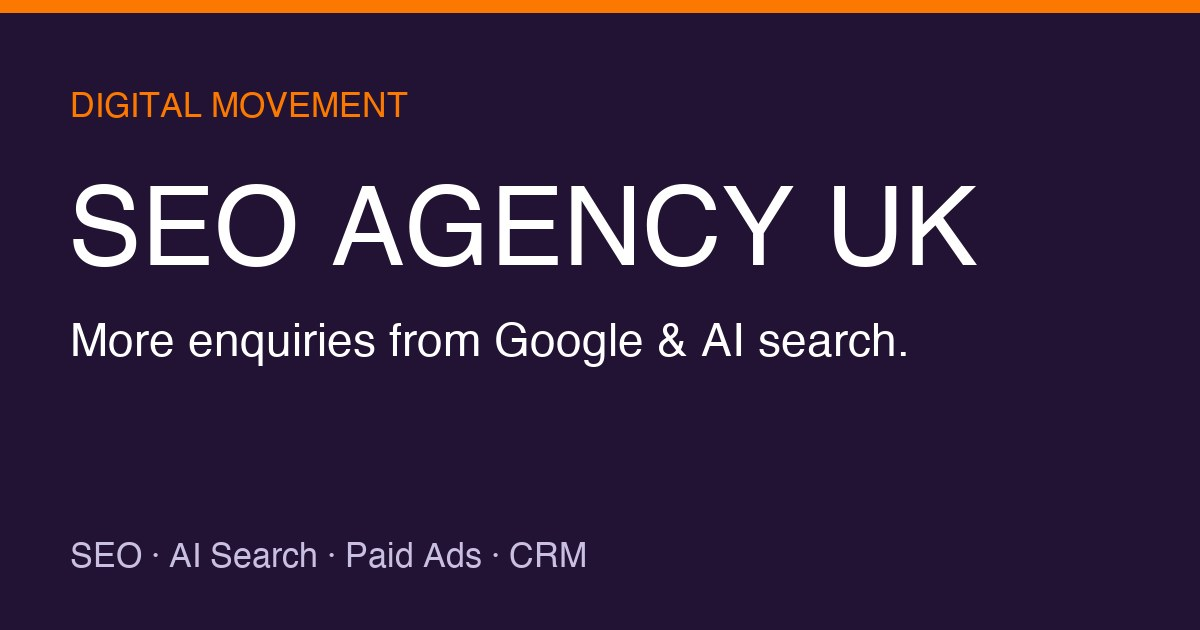
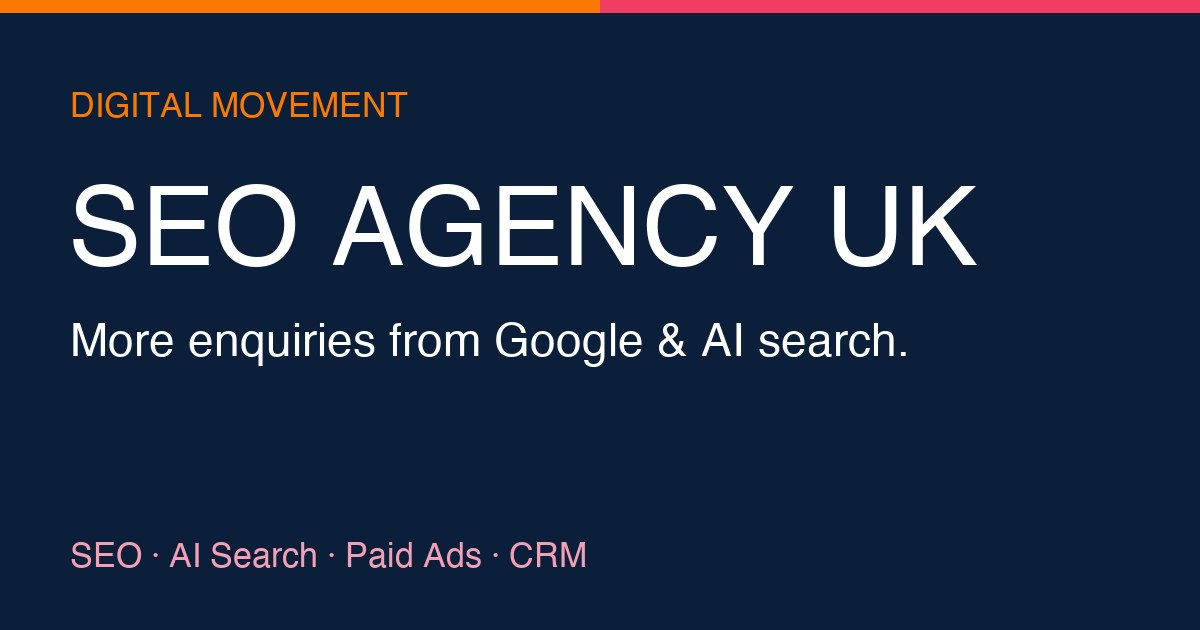
Palette: drop purple, navy darks + orange/pink accents

diff --git a/index.html b/index.html
@@ -169,9 +169,9 @@
 
   /* ===== DM BRAND v2 — real palette · NO gradients · editorial ===== */
   :root{
-    --orange:#fb7900; --amber:#fb7900; --amber-ink:#221334;
-    --ink:#221334; --ink-2:#3a2a52; --navy:#0b1f3a;
-    --cyan:#0b1f3a; --purple:#0b1f3a; --cream:#FFF3E6;
+    --orange:#fb7900; --amber:#fb7900; --amber-ink:#0b1f3a;
+    --ink:#0b1f3a; --ink-2:#25303f; --navy:#0b1f3a;
+    --cyan:#0b1f3a; --purple:#0b1f3a; --pink:#f13c64; --cream:#FFF3E6;
   }
   /* editorial large UPPERCASE headers */
   .section-head h2, .statband h2{ text-transform:uppercase; letter-spacing:-.012em; font-size:clamp(2rem,4.2vw,3.3rem); line-height:1.0; font-weight:800; max-width:none; }
@@ -185,10 +185,10 @@
   /* kill any gradient text */
   .gradient-text{ background:none!important; color:var(--orange)!important; -webkit-text-fill-color:var(--orange)!important; }
   /* brand recolour of accents */
-  .underline-accent::after{ background:var(--orange); opacity:.30; }
+  .underline-accent::after{ background:var(--pink); opacity:.34; }
   .acc summary::after{ color:#b4660a; }
   .btn-amber{ background:var(--orange); color:var(--amber-ink); box-shadow:0 12px 24px rgba(251,121,0,.26); }
-  .mosaic .tile.blue{ background:var(--navy); } .mosaic .tile.amber{ background:var(--orange); }
+  .mosaic .tile.blue{ background:var(--pink); } .mosaic .tile.amber{ background:var(--orange); }
   .dark-v2{ background:var(--ink); } .mcard{ border-color:rgba(251,121,0,.55); }
   .mcard .big,.mcard .hi,.ccard .big{ color:var(--orange); }
   .dark-v2 .eyebrow{ color:var(--orange); } .dark-v2 .eyebrow::before{ background:var(--orange); }
@@ -247,7 +247,7 @@
   .serpviz .res{ height:9px; border-radius:3px; background:#e3dcea; margin:8px 0; }
   .serpviz .res.w90{ width:90%; } .serpviz .res.w70{ width:70%; } .serpviz .res.w60{ width:60%; }
   .serpviz .res.me{ height:24px; display:flex; align-items:center; padding:0 11px; font:800 .66rem/1.1 "Inter Tight",sans-serif; border-radius:5px; }
-  .serpviz .res.me.buried{ background:#9a8fb0; color:#fff; } .serpviz .res.me.top{ background:var(--orange); color:#221334; }
+  .serpviz .res.me.buried{ background:#9a8fb0; color:#fff; } .serpviz .res.me.top{ background:var(--orange); color:#0b1f3a; }
   .vs-metrics{ list-style:none; padding:0; margin:4px 0 16px; display:grid; gap:11px; }
   .vs-metrics li{ display:flex; align-items:baseline; gap:12px; border-bottom:1px solid var(--line); padding-bottom:9px; }
   .vs-metrics li b{ font:800 1.5rem/1 "Inter Tight",sans-serif; min-width:104px; }
@@ -305,7 +305,7 @@
   .sticky-cta.show{ transform:translate(-50%,0); opacity:1; pointer-events:auto; }
   .sticky-cta a{ display:inline-flex; align-items:center; gap:9px; font:800 .95rem/1 "Inter Tight",sans-serif; padding:14px 24px; border-radius:999px; text-decoration:none; transition:transform .15s ease; }
   .sticky-cta a:hover{ transform:translateY(-2px); }
-  .sticky-cta .s-call{ background:var(--orange); color:#221334; }
+  .sticky-cta .s-call{ background:var(--orange); color:#0b1f3a; }
   .sticky-cta .s-wa{ background:#0b1f3a; color:#fff; }
   .sticky-cta svg{ width:18px; height:18px; flex:none; }
   @media(max-width:640px){ .sticky-cta{ left:12px; right:12px; bottom:12px; transform:translateY(150%); justify-content:stretch; }
@@ -332,6 +332,9 @@
   #contact .contact-block a{ color:var(--orange) !important; text-decoration:underline; }
   #contact .contact-block, #contact .contact-block p, #contact .contact-block strong{ color:#fff; }
   #contact .contact-block .small{ color:rgba(255,255,255,.82); }
+  .eyebrow::before{ background:var(--pink) !important; }
+  .vs-mid span{ border-color:var(--pink); color:var(--pink); }
+  .box-label{ background:rgba(241,60,100,.12) !important; color:#c01746 !important; }
   </style>
   <script type="application/ld+json">{"@context":"https://schema.org","@graph":[{"@type":"Organization","@id":"https://digitalmovement.uk/#organization","name":"Digital Movement","legalName":"Digital Movement Marketing Ltd","url":"https://digitalmovement.uk/","logo":"https://digitalmovement.uk/assets/dm-logo-real.png","email":"[email redacted]","telephone":"[phone redacted]","foundingDate":"2018","foundingLocation":"Melbourne, Australia","identifier":{"@type":"PropertyValue","name":"Companies House","value":"[phone redacted]"},"address":{"@type":"PostalAddress","streetAddress":"128 City Road","addressLocality":"London","postalCode":"EC1V 2NX","addressCountry":"GB"},"areaServed":[{"@type":"Country","name":"United Kingdom"},{"@type":"Country","name":"Australia"},{"@type":"Country","name":"New Zealand"}],"aggregateRating":{"@type":"AggregateRating","ratingValue":"5.0","reviewCount":"102","bestRating":"5"},"award":["Best Digital Marketing Agency in Australia 2026 (Digital Reference)","Top 10 Digital Marketing Agencies in Australia (Cape Digital)"],"founder":[{"@id":"https://digitalmovement.uk/#raoul"},{"@id":"https://digitalmovement.uk/#martey"}],"review":[{"@type":"Review","author":{"@type":"Person","name":"Jessica Purcell"},"reviewRating":{"@type":"Rating","ratingValue":"5","bestRating":"5"},"reviewBody":"Great quality service, proactive and positive, easy to deal with, and outcomes as promised. Highly recommend Stuart and the team, and grateful for their work so far."},{"@type":"Review","author":{"@type":"Person","name":"Matthew Kang"},"reviewRating":{"@type":"Rating","ratingValue":"5","bestRating":"5"},"reviewBody":"Stuart, Dean and the crew have been excellent in creating a complete redesign of a new website for my business and managing Google advertising and SEO work with great results quite quickly. They have…"},{"@type":"Review","author":{"@type":"Person","name":"Beth Sorensen"},"reviewRating":{"@type":"Rating","ratingValue":"5","bestRating":"5"},"reviewBody":"Digital Movement have been amazing to work with. Dean and the team built me a great website and set up SEO and Google Ads and I started getting real leads not long after. The team is easy to talk to,…"},{"@type":"Review","author":{"@type":"Person","name":"Fabienne M"},"reviewRating":{"@type":"Rating","ratingValue":"5","bestRating":"5"},"reviewBody":"Punctual organise efficient is just a few of the best quality. I have been dealing with this company for years now and I couldn’t recommend a better social media marketing agency. Not only have they…"},{"@type":"Review","author":{"@type":"Person","name":"Ricky Sharpe"},"reviewRating":{"@type":"Rating","ratingValue":"5","bestRating":"5"},"reviewBody":"Marty and the team have been absolutely awesome! They set up my website and are currently working on my Google Ads and SEO. They’re always quick to respond to any questions or concerns I have, and…"},{"@type":"Review","author":{"@type":"Person","name":"Damian Talbot"},"reviewRating":{"@type":"Rating","ratingValue":"5","bestRating":"5"},"reviewBody":"We’ve used Digital Movement to over 10 now and we highly recommend, We noticed a great uptick from the start."},{"@type":"Review","author":{"@type":"Person","name":"Malin Burnand"},"reviewRating":{"@type":"Rating","ratingValue":"5","bestRating":"5"},"reviewBody":"The team at Digital Movement has been absolutely fantastic in creating my shiny new website for Willow Branch Photography, and I couldn't be happier with the redesign and development! They kept me…"},{"@type":"Review","author":{"@type":"Person","name":"mel sweeney"},"reviewRating":{"@type":"Rating","ratingValue":"5","bestRating":"5"},"reviewBody":"Stuart is incredibly professional with attention to detail, clear communication and understanding of my goals. The creativity, copy and design technique of the ads are visually compelling and…"}]},{"@type":"Person","@id":"https://digitalmovement.uk/#raoul","name":"Raoul (Alex) Müller","jobTitle":"Co-Founder","worksFor":{"@id":"https://digitalmovement.uk/#organization"},"sameAs":["https://linkedin.com/in/raoulschaller"],"image":"https://digitalmovement.uk/assets/founder-raoul.jpg"},{"@type":"Person","@id":"https://digitalmovement.uk/#martey","name":"Martey Quaye","jobTitle":"Co-Founder","worksFor":{"@id":"https://digitalmovement.uk/#organization"},"image":"https://digitalmovement.uk/assets/founder-martey.jpg"},{"@type":"WebSite","@id":"https://digitalmovement.uk/#website","url":"https://digitalmovement.uk/","name":"Digital Movement UK","publisher":{"@id":"https://digitalmovement.uk/#organization"},"inLanguage":"en-GB"},{"@type":"WebPage","@id":"https://digitalmovement.uk/#webpage","url":"https://digitalmovement.uk/","name":"SEO Agency UK | More Enquiries from Google & AI","description":"Digital Movement UK is an SEO agency for UK businesses that want more enquiries from Google and AI search.","isPartOf":{"@id":"https://digitalmovement.uk/#website"},"about":{"@id":"https://digitalmovement.uk/#service"},"datePublished":"2026-06-15","dateModified":"2026-06-19","inLanguage":"en-GB"},{"@type":"Service","@id":"https://digitalmovement.uk/#service","name":"SEO agency for UK businesses","serviceType":"Search engine optimisation agency","description":"An SEO agency that combines SEO, AI search, paid ads and CRM to grow enquiries for UK businesses.","provider":{"@id":"https://digitalmovement.uk/#organization"},"areaServed":{"@type":"Country","name":"United Kingdom"}},{"@type":"BreadcrumbList","@id":"https://digitalmovement.uk/#breadcrumb","itemListElement":[{"@type":"ListItem","position":1,"name":"Home","item":"https://digitalmovement.uk/"}]},{"@type":"HowTo","@id":"https://digitalmovement.uk/#process","name":"How Digital Movement UK grows enquiries","step":[{"@type":"HowToStep","name":"Map demand","text":"Find where your buyers search, on Google and on AI tools."},{"@type":"HowToStep","name":"Earn presence","text":"Fix the technical base and build the pages that can rank."},{"@type":"HowToStep","name":"Make you clear","text":"Help Google and AI understand what you do and who you help."},{"@type":"HowToStep","name":"Build authority","text":"Earn trusted links and mentions so you compete in harder markets."},{"@type":"HowToStep","name":"Keep improving","text":"Track rankings, AI answers and enquiries, then choose the next move."}]},{"@type":"FAQPage","@id":"https://digitalmovement.uk/#faq","mainEntity":[{"@type":"Question","name":"What does an SEO agency do?","acceptedAnswer":{"@type":"Answer","text":"An SEO agency helps people find your business when they search, then helps turn those visitors into enquiries. The work covers keyword research, technical fixes so Google and AI can read your site, content, local SEO for the map pack, links for authority, and AI search so tools like ChatGPT and Google AI Overviews can recommend you. A good agency shows the plan, does the work each month, and reports the enquiries it brought."}},{"@type":"Question","name":"How much does an SEO agency cost in the UK?","acceptedAnswer":{"@type":"Answer","text":"It depends on how competitive your market is, how many pages need work, and how fast you want results. Small local campaigns cost less. National or ecommerce campaigns need more work, so they cost more. We scope the first phase around the work most likely to bring enquiries, keep it month to month, and show what each pound buys."}},{"@type":"Question","name":"How long does SEO take to bring enquiries?","acceptedAnswer":{"@type":"Answer","text":"You often see early movement within a few weeks after technical fixes and local work. Stronger enquiry growth usually builds over three to six months. The hardest national terms take longer. The monthly report shows what is improving and what comes next, so you can see progress early."}},{"@type":"Question","name":"Can you help us show up in AI search like ChatGPT?","acceptedAnswer":{"@type":"Answer","text":"Yes. AI search uses the same base as Google ranking: pages it can read, clear answers, matching business details, schema, real reviews, and trusted mentions. We strengthen those so ChatGPT, Gemini, Claude, Perplexity and Google AI Overviews can understand your business and name it when buyers ask."}},{"@type":"Question","name":"Do you only do SEO, or paid ads and CRM too?","acceptedAnswer":{"@type":"Answer","text":"SEO is our core. It works best with three other services. AI search gets you found inside AI tools. Paid ads bring enquiries quickly while SEO builds. CRM makes sure every enquiry is captured and followed up. You can start with SEO and add the rest when they help."}},{"@type":"Question","name":"Is SEO worth it for a small business?","acceptedAnswer":{"@type":"Answer","text":"SEO is worth it when buyers already search for what you sell and your site can turn visitors into enquiries. It is weaker when the offer is unproven or you need sales this week. We check the market first and suggest the smallest useful first step. We will say so if paid ads or local work would bring enquiries faster."}},{"@type":"Question","name":"How is local SEO different from regular SEO?","acceptedAnswer":{"@type":"Answer","text":"Standard SEO wins listings across the whole country or a sector. Local SEO wins buyers near you. Google shows a map pack of three businesses above the normal results, and local SEO helps you appear there. It leans on your Google Business Profile, matching name, address and phone, reviews, local listings and location pages. Many businesses need both."}},{"@type":"Question","name":"Do I need new content every month?","acceptedAnswer":{"@type":"Answer","text":"Often, yes, but only where it helps. New guides, service pages and comparison pages build depth on a topic, which Google and AI tools reward. We write the pages most likely to bring enquiries first. We would rather publish a few strong pages than many weak ones."}},{"@type":"Question","name":"What do you need from us to start?","acceptedAnswer":{"@type":"Answer","text":"Only a few things. Access to your site, your analytics and Google Search Console. Your Google Business Profile if you serve a local area. A short chat about your best customers and the services you most want to grow. We handle the rest and keep you informed."}}]}]}</script>
 </head>

diff --git a/assets/styles.css b/assets/styles.css
@@ -1,6 +1,7 @@
 :root {
-  --ink: #1A0E2E;
-  --ink-2: #302045;
+  --ink: #0b1f3a;
+  --pink: #f13c64;
+  --ink-2: #25303f;
   --muted: #625774;
   --line: #E9E0EF;
   --paper: #FBF8FE;
@@ -8,7 +9,7 @@
   --white: #FFFFFF;
   --orange: #F59425;
   --pink: #F13C64;
-  --purple: #4A1E70;
+  --purple: #0b1f3a;
   --cyan: #20BFC2;
   --green: #14795C;
   --shadow: 0 22px 60px rgba(26, 14, 46, 0.14);